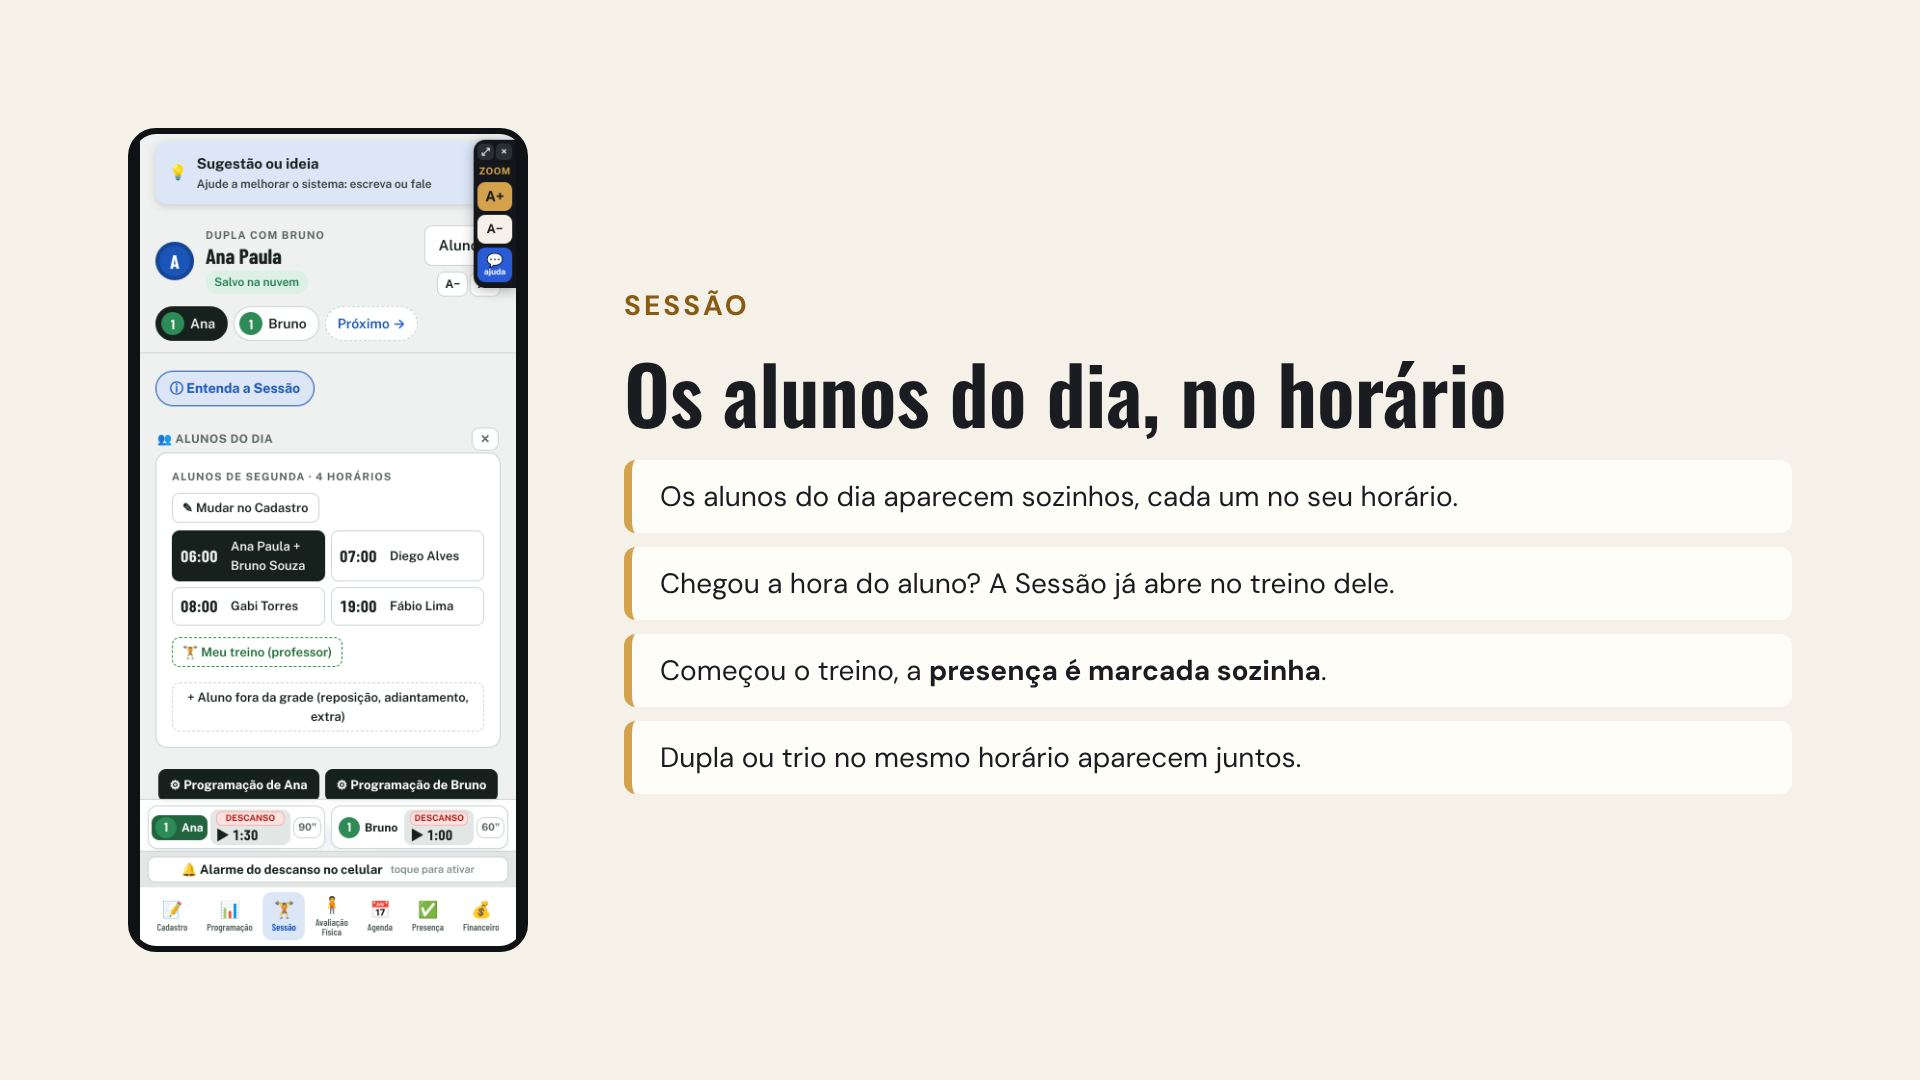
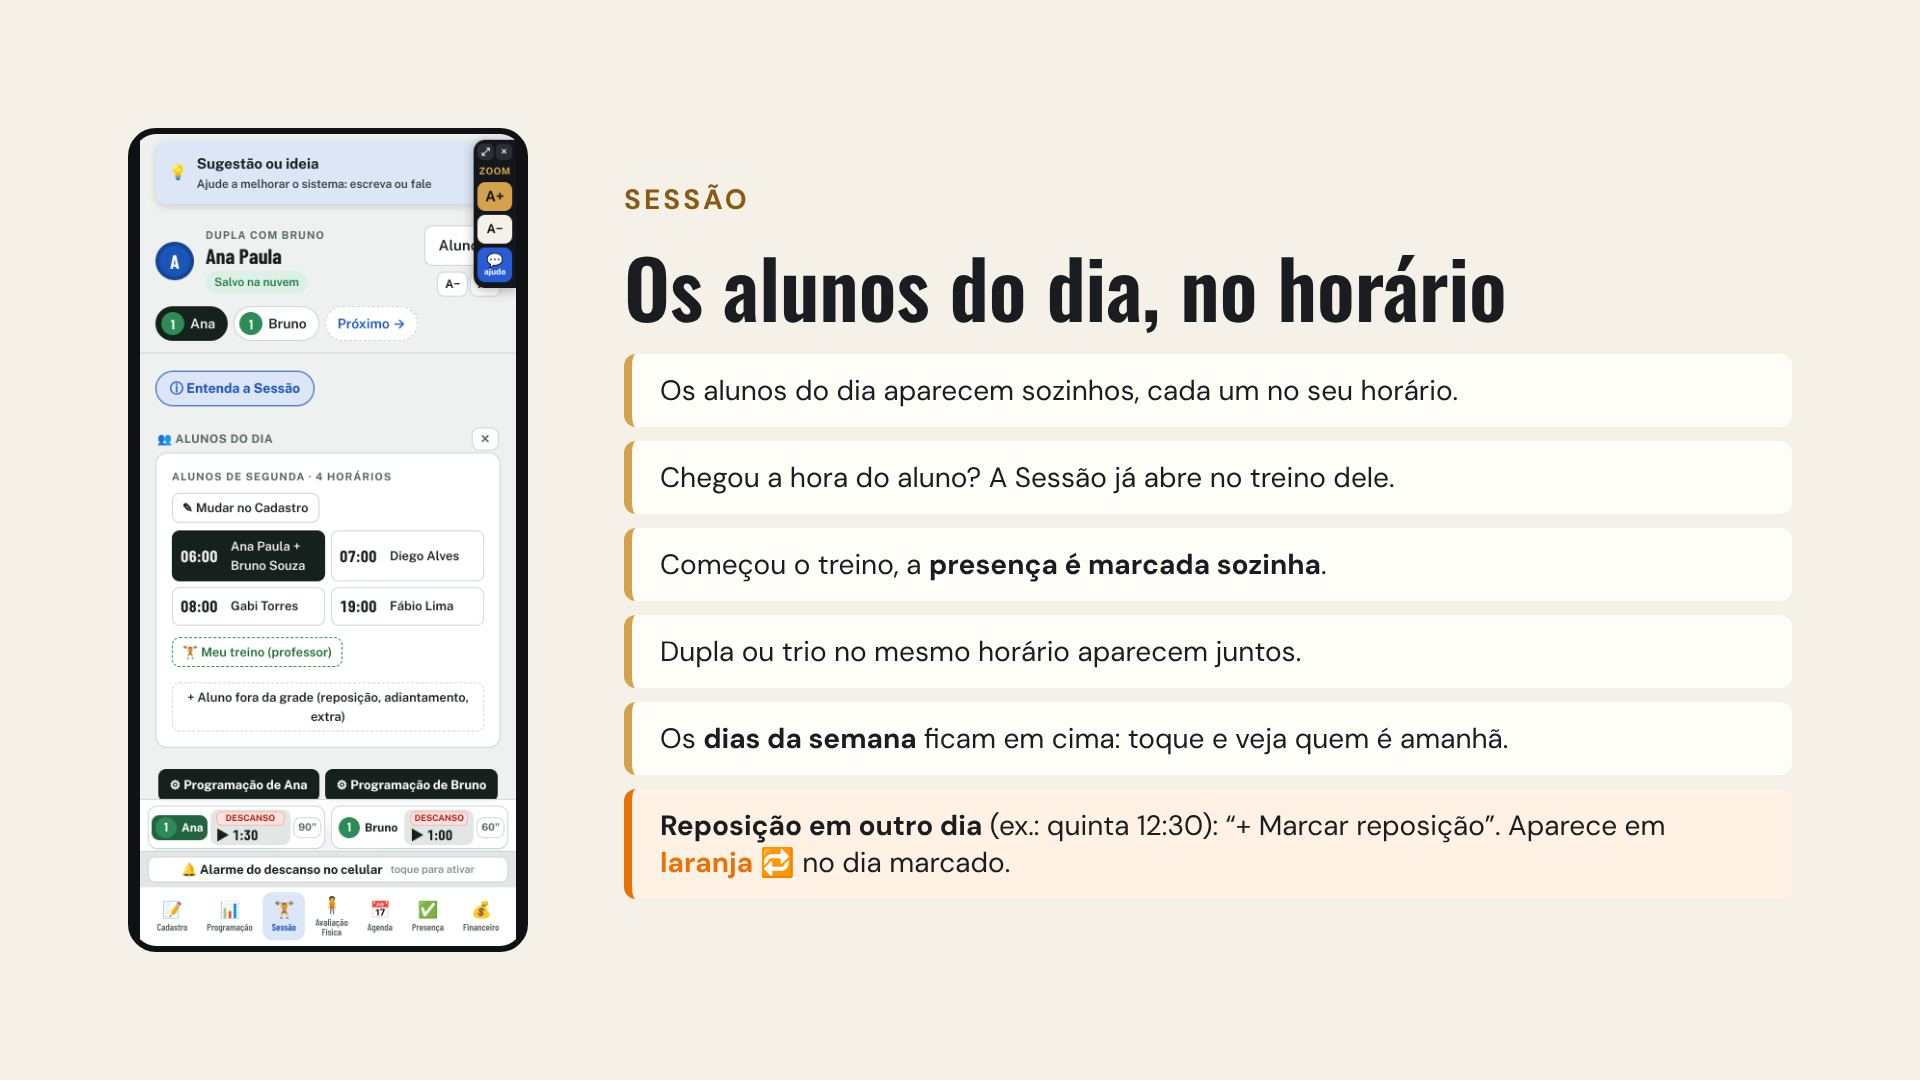
Sessão: dias da semana em Alunos do dia; reposição marcada para outro dia em destaque laranja; slide atualizado
Claude-Session: https://claude.ai/code/session_01ExiWmKxJX9TgZX8HbSZjPY

diff --git a/index.html b/index.html
@@ -1,4 +1,4 @@
-<!doctype html><html><head><meta charset=utf8><link rel="manifest" href="manifest.webmanifest"><meta name="theme-color" content="#0f1115"><link rel="icon" href="icon-192.png"><link rel="apple-touch-icon" href="icon-192.png"><meta name="apple-mobile-web-app-capable" content="yes"><meta name="mobile-web-app-capable" content="yes"><meta name="apple-mobile-web-app-title" content="Rotina do Personal"><meta name=viewport content="width=device-width,initial-scale=1,viewport-fit=cover"><style>:root{color-scheme:light;box-sizing:border-box;padding-top:env(safe-area-inset-top,0px);padding-bottom:env(safe-area-inset-bottom,0px)}html{scroll-padding-top:env(safe-area-inset-top,0px)}body{margin:0;padding:0;font:14px -apple-system,BlinkMacSystemFont,sans-serif;background:#faf9f5;color:#141413}img{max-width:100%}[hidden]:not([hidden=until-found i]){display:none!important}</style><script>window.RP_BUILD="1793010172";
+<!doctype html><html><head><meta charset=utf8><link rel="manifest" href="manifest.webmanifest"><meta name="theme-color" content="#0f1115"><link rel="icon" href="icon-192.png"><link rel="apple-touch-icon" href="icon-192.png"><meta name="apple-mobile-web-app-capable" content="yes"><meta name="mobile-web-app-capable" content="yes"><meta name="apple-mobile-web-app-title" content="Rotina do Personal"><meta name=viewport content="width=device-width,initial-scale=1,viewport-fit=cover"><style>:root{color-scheme:light;box-sizing:border-box;padding-top:env(safe-area-inset-top,0px);padding-bottom:env(safe-area-inset-bottom,0px)}html{scroll-padding-top:env(safe-area-inset-top,0px)}body{margin:0;padding:0;font:14px -apple-system,BlinkMacSystemFont,sans-serif;background:#faf9f5;color:#141413}img{max-width:100%}[hidden]:not([hidden=until-found i]){display:none!important}</style><script>window.RP_BUILD="1793015102";
 (function(){ var K="rp_upd_try";
   var T0=Date.now(); function chk(){ try{ fetch(location.pathname+"?v="+Date.now(),{cache:"no-store"}).then(function(r){ return r.text(); }).then(function(t){ var m=t.match(/window\.RP_BUILD="(\d+)"/); if(!m||m[1]===window.RP_BUILD) return;
       var tried=sessionStorage.getItem(K); if(Date.now()-T0<15000&&tried!==m[1]){ sessionStorage.setItem(K,m[1]); go(m[1]); return; } showUpd(m[1]); }).catch(function(){}); }catch(e){} }
@@ -335,6 +335,7 @@ input.mini{padding:5px;text-align:center}
 .xband.xband3{display:block!important}.xb3{display:flex!important;flex-wrap:nowrap!important;gap:5px!important;padding:5px 6px!important;justify-content:center;border-left:0!important}.xb3 .xb-sug{flex:1 1 0;min-width:0;max-width:200px;white-space:normal!important;line-height:1.15;font-size:10.5px!important;padding:4px 6px!important;text-align:center}
 #restWin{--rwk:1;position:fixed;right:22px;bottom:190px;z-index:8500;min-width:calc(150px*var(--rwk));max-width:calc(230px*var(--rwk));background:var(--rwbg);color:var(--rwfg);border-radius:16px;box-shadow:0 8px 28px rgba(0,0,0,.35);border:2px solid rgba(127,127,127,.45);padding:6px 10px 8px;touch-action:none;user-select:none;cursor:grab}#restWin[hidden]{display:none}#restWin.drag{opacity:.85;cursor:grabbing}#restWin .rwh{display:flex;align-items:center;gap:6px;font-size:11px;font-weight:800;text-transform:uppercase;letter-spacing:.06em;opacity:.85}#restWin .rwh span:nth-child(2){flex:1}#restWin .rwg{font-size:15px}#restWin button{background:none;border:0;color:inherit;cursor:pointer;font:inherit}#restWin .rwx{font-size:16px;padding:2px 4px}#restWin .rwr{display:flex;align-items:center;gap:6px;margin-top:2px}#restWin .rwn{font-size:calc(13px*var(--rwk));font-weight:700;flex:1;min-width:0;overflow:hidden;text-overflow:ellipsis;white-space:nowrap}#restWin .rwt{font-size:calc(34px*var(--rwk));font-weight:900;line-height:1.05}#restWin .rwr.go .rwt{animation:rwpulse .6s ease-in-out infinite alternate}@keyframes rwpulse{to{opacity:.35}}#restWin .rwa{position:absolute;top:50%;transform:translateY(-50%);width:22px;height:44px;border-radius:10px!important;background:var(--rwbg)!important;border:2px solid rgba(127,127,127,.55)!important;font-size:12px!important;display:flex;align-items:center;justify-content:center;box-shadow:0 2px 8px rgba(0,0,0,.25)}#restWin .rwa-l{left:-16px}#restWin .rwa-r{right:-16px}#restWin .rws{font-size:calc(16px*var(--rwk));opacity:.8}#restWin .rwc{display:flex;gap:6px;justify-content:center;margin-top:6px}#restWin .rwc button{width:20px;height:20px;border-radius:50%;border:2px solid rgba(127,127,127,.6);padding:0}#restWin .rwc button.on{outline:2px solid var(--rwfg);outline-offset:2px}
 .sndnow{display:flex;align-items:center;justify-content:space-between;gap:8px;background:var(--ok-soft);border:2px solid var(--ok);border-radius:12px;padding:8px 10px}.sndnow span{display:grid;font-size:12px;color:var(--muted);font-weight:700}.sndnow b{font-size:16px;color:var(--fg)}.sndpl{font-style:normal;font-size:10px;opacity:.7;margin-left:2px}
+.tdays{margin:-2px 0 10px}.tdays .daychips{margin:0}.unit.xrepu{border:2.5px solid #E8710A!important;background:#FFF1E3!important;color:#5a2d00}.unit.xrepu.on{background:#E8710A!important;color:#fff}.unit.xrepu .xtag{background:#E8710A;color:#fff}.dyrep{position:absolute;top:-8px;right:-4px;font-style:normal;font-size:11px;background:#E8710A;color:#fff;border-radius:999px;padding:0 4px;line-height:16px}.daychips button{position:relative}
 .repask p{margin:0}.repask .rq{font-size:17px;font-weight:800}.repask .rbt{display:flex;gap:8px;flex-wrap:wrap;justify-content:center}.repask .rbt .btn{flex:1 1 140px}.repask small{color:var(--muted);font-size:12px}
 .xb-tec.on{background:var(--accent)!important;color:#fff!important}
 .tecmhint{margin:0;padding:4px 8px;font-size:11px;text-align:center;background:var(--accent-soft);color:var(--fg)}.xtec.pick{border-style:solid!important;color:var(--accent)!important;border-color:var(--accent)!important}
@@ -3445,23 +3446,23 @@ function sesAddHTML(st){
     <div class="row-actions"><button class="btn small primary" data-sesedok="${i.key}">Salvar</button><button class="btn small danger" data-sesrm="${i.key}">Apagar aula</button><button class="btn small ghost" data-sesed="">Fechar</button></div></div>`;
   const grp={}; ex.forEach(e=>(grp[e.i.hora]=grp[e.i.hora]||[]).push(e));
   const cs=curSlot();
-  const one=({i,m})=>`<span class="xu"><button class="unit ${m.id===st.id?"on":""}" data-unit="${m.id}" data-sesed="${i.key}"><span class="ud" style="--pc:var(--p${m.phase})">${phK(m)}</span>${esc(first(m.name))}<span class="xtag">${i.tipo==="extra"&&i.a.tipo==="pacote"?"Pacote":(XT_LBL[i.tipo]||"Extra")} · ${i.hora}</span><span class="xpen">✎</span></button>${sesDel===i.key?`<span class="xdelq">Apagar? <button class="btn small danger" data-sesrmok="${i.key}">Sim</button><button class="btn small ghost" data-sesrmno>Não</button></span>`:`<button class="xurm" data-sesrm="${i.key}" aria-label="Apagar esta aula de ${esc(first(m.name))}">✕</button>`}</span>`;
-  const many=(L)=>{ const h=L[0].i.hora, on=cs&&cs.id==="xs"+h; return `<div class="xgrp"><button class="unit ${on?"on":""}" data-xslot="xs${h}">${L.map(({m})=>`<span class="ud" style="--pc:var(--p${m.phase})">${phK(m)}</span>${esc(first(m.name))}`).join('<span class="uplus">+</span>')}<span class="xtag">${[...new Set(L.map(({i})=>i.tipo==="extra"&&i.a.tipo==="pacote"?"Pacote":(XT_LBL[i.tipo]||"Extra")))].join(" / ")} · ${h}</span></button>
+  const one=({i,m})=>`<span class="xu"><button class="unit ${m.id===st.id?"on":""} ${i.tipo==="rep"?"xrepu":""}" data-unit="${m.id}" data-sesed="${i.key}"><span class="ud" style="--pc:var(--p${m.phase})">${phK(m)}</span>${esc(first(m.name))}<span class="xtag">${i.tipo==="rep"?"🔁 REPOSIÇÃO":i.tipo==="extra"&&i.a.tipo==="pacote"?"Pacote":(XT_LBL[i.tipo]||"Extra")} · ${i.hora}</span><span class="xpen">✎</span></button>${sesDel===i.key?`<span class="xdelq">Apagar? <button class="btn small danger" data-sesrmok="${i.key}">Sim</button><button class="btn small ghost" data-sesrmno>Não</button></span>`:`<button class="xurm" data-sesrm="${i.key}" aria-label="Apagar esta aula de ${esc(first(m.name))}">✕</button>`}</span>`;
+  const many=(L)=>{ const h=L[0].i.hora, on=cs&&cs.id==="xs"+h; return `<div class="xgrp"><button class="unit ${on?"on":""} ${L.some(({i})=>i.tipo==="rep")?"xrepu":""}" data-xslot="xs${h}">${L.map(({m})=>`<span class="ud" style="--pc:var(--p${m.phase})">${phK(m)}</span>${esc(first(m.name))}`).join('<span class="uplus">+</span>')}<span class="xtag">${[...new Set(L.map(({i})=>i.tipo==="extra"&&i.a.tipo==="pacote"?"Pacote":(XT_LBL[i.tipo]||"Extra")))].join(" / ")} · ${h}</span></button>
     <div class="xgm">${L.map(({i,m})=>sesDel===i.key?`<span class="xdelq">Apagar ${esc(first(m.name))}? <button class="btn small danger" data-sesrmok="${i.key}">Sim</button><button class="btn small ghost" data-sesrmno>Não</button></span>`:`<span class="xu"><button class="xmini" data-sesed="${i.key}" data-xedonly>✎ ${esc(first(m.name))}</button><button class="xurm" data-sesrm="${i.key}" aria-label="Apagar a aula de ${esc(first(m.name))}">✕</button></span>`).join("")}<small class="muted">Treinando juntos. Para separar, mude o horário de um deles no ✎.</small></div></div>`; };
   const list= ex.length? `<div class="units xunits">${Object.values(grp).map(L=>L.length>1? many(L) : one(L[0])).join("")}</div>${(()=>{ const e=ex.find(x=>x.i.key===sesEdit); return e? edHTML(e.i) : ""; })()}` : "";
   if(!presOn()||!k) return list;
-  if(!sesAddOpen) return `${list}<button class="btn small sesadd" data-sesadd>+ Aluno fora da grade (reposição, adiantamento, extra)</button>`;
+  if(!sesAddOpen) return `${list}<button class="btn small sesadd" data-sesadd>+ Marcar reposição ou aula fora da grade</button>`;
   const now=new Date(), hh=String(now.getHours()).padStart(2,"0")+":"+String(Math.floor(now.getMinutes()/5)*5).padStart(2,"0");
   const ops=PRES.alunos().filter(a=>a.ativo!==false&&a.tipo!=="ficha"&&a.tipo!=="consultoria").sort((a,b)=>a.nome.localeCompare(b.nome,"pt-BR")).map(a=>({pid:a.id,name:a.nome})).map(x=>{ const sd=PRES.saldo(x.pid), tp=PRES.tipoAluno(x.pid); return `<option value="${x.pid}" data-tp="${tp}" data-sd="${sd}">${esc(x.name)}${sd>0?` · deve ${sd}`:sd<0?` · ${-sd} adiantada${-sd>1?"s":""}`:""}${tp==="pacote"?" · pacote":tp==="avulsa"?" · avulsa":""}</option>`; }).join("");
-  return `${list}<div class="sesaddf"><b>Lançar aula fora da grade</b>
+  return `${list}<div class="sesaddf"><b>Marcar reposição ou aula fora da grade</b>
     <label>Aluno<select class="inp" id="sa-al" data-saal><option value="">Escolha o aluno</option>${ops}</select></label>
-    <label>Data<input class="inp" type="date" id="sa-k" value="${k}" max="${isoD(new Date(Date.now()+864e5*60))}"><small class="muted">Aula de dia anterior que não foi contada? Mude a data: ela entra como aula dada.</small></label>
+    <label>Data<input class="inp" type="date" id="sa-k" value="${k}" max="${isoD(new Date(Date.now()+864e5*60))}"><small class="muted">Ex.: a Cris pediu quinta às 12:30? Escolha a data de quinta, o horário e “Reposição”. Fica marcada naquele dia em destaque.</small></label>
     ${(()=>{ const opts=[...slotsOf(S.day).map(sl=>({t:sl.t,n:sl.ids.map(id=>{const x=stById(id);return x?first(x.name):"";}).filter(Boolean).join(" + ")})), ...Object.entries(ex.reduce((g,{i,m})=>{(g[i.hora]=g[i.hora]||[]).push(first(m.name));return g;},{})).map(([t,ns])=>({t,n:ns.join(" + ")}))].filter(o=>o.n);
       return opts.length? `<label>Treinar junto com (opcional)<select class="inp" id="sa-jt"><option value="">Sozinho</option>${opts.map(o=>`<option value="${o.t}">${esc(o.n)} · ${o.t}</option>`).join("")}</select><small class="muted">Escolha alguém e o horário fica igual: treinam em dupla na Sessão.</small></label>` : ""; })()}
     <div class="two"><label>Tipo<select class="inp" id="sa-tp"><option value="rep">Reposição (repõe falta)</option><option value="adi">Adiantamento (adianta aula futura)</option><option value="pac">Mais uma aula do pacote</option><option value="extra">Aula extra ou avulsa</option></select></label>
     <label>Horário<input class="inp" type="time" step="300" id="sa-h" value="${hh}"></label></div>
     <p class="muted sahelp" id="sa-help">A aula entra na Presença deste dia e é marcada como dada quando você lançar o treino.</p>
-    <div class="row-actions"><button class="btn small primary" data-sesaddok>Adicionar e abrir treino</button><button class="btn small ghost" data-sesadd>Cancelar</button></div></div>`;
+    <div class="row-actions"><button class="btn small primary" data-sesaddok>Marcar</button><button class="btn small ghost" data-sesadd>Cancelar</button></div></div>`;
 }
 function todayHTML(st){
   const h=todayHTML0(st); if(gradeEdit) return h;
@@ -4734,6 +4735,7 @@ function renderSessao0(){
   const names=[...new Set([...LIB.map(e=>e.n),...(S.custom||[]).map(e=>e.n)])];
   const grp={}; [...LIB,...(S.custom||[])].forEach(e=>{ const main=Object.entries(e.m||{}).sort((a,b)=>b[1]-a[1])[0]; const g=main&&MUSCLES[main[0]]?MUSCLES[main[0]].n:"Outros"; (grp[g]=grp[g]||[]).push(e.n); });
   PICK_OPTS=Object.entries(grp).map(([g,l])=>`<optgroup label="${esc(g)}">${l.map(n=>`<option>${esc(n)}</option>`).join("")}</optgroup>`).join("");
+  const DAYCH=`<div class="daychips" role="group" aria-label="Dia">${DAYS.map(dy=>{ const kk=addDays(w.start,DAYS.indexOf(dy)); const off=presOn()&&PRES.isOff(kk); const nr=presOn()? sesExtras(dy).filter(x=>x.i.tipo==="rep").length : 0; return `<button data-dy="${dy}" aria-pressed="${dy===S.day}" class="${off?"dyoff":""}">${off?`<i class="dyfer">${(()=>{ const r=String(PRES.offReason(kk)||""); return /^(Viagem|Folga)/.test(r)? r.split(/[ (]/)[0] : "Feriado"; })()}</i>`:""}${nr?`<i class="dyrep" title="Reposição">🔁${nr>1?nr:""}</i>`:""}${dy}<small>${ddmm(addDays(w.start,DAYS.indexOf(dy)))}</small>${used.has(dy)?'<span class="dot"></span>':""}</button>`; }).join("")}</div>`;
   SES_WK=`  <div class="card seswk">
     <div class="weeknav">
       <button class="icon-btn" data-wk="-1" ${wi===0?"disabled":""} aria-label="Semana anterior">‹</button>
@@ -4743,14 +4745,14 @@ function renderSessao0(){
     ${armNewWeek? `<div class="note" style="display:grid;gap:8px"><span>Criar a semana ${last.n+1} (${ddmm(addDays(last.start,7))})</span>
       <div class="row"><button class="btn primary small" data-nw="copy">Usar a semana ${last.n} como referência (↻ Repetir)</button><button class="btn small" data-nw="blank">Em branco</button><button class="btn small ghost" data-nw="cancel">Cancelar</button></div></div>`
       : wkRowHTML()}
-    <div class="daychips" role="group" aria-label="Dia">${DAYS.map(dy=>{ const kk=addDays(w.start,DAYS.indexOf(dy)); const off=presOn()&&PRES.isOff(kk); return `<button data-dy="${dy}" aria-pressed="${dy===S.day}" class="${off?"dyoff":""}">${off?`<i class="dyfer">${(()=>{ const r=String(PRES.offReason(kk)||""); return /^(Viagem|Folga)/.test(r)? r.split(/[ (]/)[0] : "Feriado"; })()}</i>`:""}${dy}<small>${ddmm(addDays(w.start,DAYS.indexOf(dy)))}</small>${used.has(dy)?'<span class="dot"></span>':""}</button>`; }).join("")}</div>
+    ${DAYCH}
     <div class="seg" role="group" aria-label="Modo"><button data-mode="lancar" aria-pressed="${sesMode==="lancar"}">Lançar</button><button data-report="day">Rel. do dia ↗</button><button data-report="week">Rel. semanal ↗</button>${qtip("rel")}</div>
   </div>`;
   document.getElementById("view-sessao").innerHTML=`${helpBtn("sessao")}
   <datalist id="exlist">${names.map(n=>`<option value="${esc(n)}">`).join("")}</datalist>
   <datalist id="cardiolist">${["Esteira","Bike","Spinning","Elíptico","Escada","Remo","Corrida na rua","Caminhada","Natação"].map(n=>`<option value="${n}">`).join("")}</datalist>
   ${wkCfgHTML("banner")}
-  ${boxW("alunos","👥 Alunos do dia",todayHTML(st))}
+  ${boxW("alunos","👥 Alunos do dia",(gradeEdit?"":`<div class="tdays">${DAYCH}</div>`)+todayHTML(st))}
   ${sesMode==="lancar"? "" : boxW("semana","📅 Semana e dia",SES_WK)}
   ${sesProgHTML(st)}
   ${sesMode==="lancar"? `<div class="cols" style="--n:${ms.length}">${ms.map(m=>colHTML(m,w,ms)).join("")}</div>` : painelHTML(st,w)}`;
@@ -4866,7 +4868,7 @@ function sesClick(e){
     const sid=m.id, k=document.getElementById("sa-k").value||dateOfDay(S.day), tp0=document.getElementById("sa-tp").value, tp=tp0==="pac"?"extra":tp0, h=document.getElementById("sa-h").value||"07:00";
     const dupK=m.pid+k; if(PRES.agenda(k).some(i=>i.a.id===m.pid&&i.tipo!=="fixo")&&sesDup!==dupK){ sesDup=dupK; toast(`${first(m.name)} já tem aula lançada em ${ddmm(k)}. Toque de novo se for mesmo outra aula.`); return; }
     sesDup=null; PRES.addAula(m.pid,k,h,tp); sesAddOpen=false; S.slot=null; if(k===dateOfDay(S.day)) S.active=sid; save();
-    if(k!==dateOfDay(S.day)){ toast(`${tp0==="pac"?"Aula do pacote":XT_LBL[tp]} de ${first(m.name)} lançada em ${ddmm(k)} · conta na Presença`); renderAll(); return; }
+    if(k!==dateOfDay(S.day)){ toast(`${tp0==="pac"?"Aula do pacote":XT_LBL[tp]} de ${first(m.name)} marcada para ${ddmm(k)} às ${h}`); renderAll(); return; }
     toast(`${tp0==="pac"?"Aula do pacote":XT_LBL[tp]} de ${first(m.name)} ${tp==="adi"?"lançado":"lançada"} · conta na Presença`); renderAll(); return; }
   if(b.dataset.unit){ if(b.dataset.sesed!=null){ sesEdit= (S.active===b.dataset.unit&&sesEdit===b.dataset.sesed)? null : b.dataset.sesed; } S.active=b.dataset.unit; save(); renderAll(); return; }
   if(b.dataset.sesed!=null){ sesEdit=b.dataset.sesed||null; renderSessao(); return; }
@@ -4880,6 +4882,7 @@ function sesClick(e){
     if(b.dataset.gdel){ sl.ids=sl.ids.filter(x=>x!==b.dataset.gdel); }
     if(b.hasAttribute("data-gslotdel")){ S.grade[S.day]=L.filter(x=>x!==sl); }
     save(); renderSessao(); return; }
+  if(b.dataset.dy&&b.closest(".tdays")){ S.day=b.dataset.dy; armAct=null; S.slot=null; save(); rer(); return; }
   if(b.dataset.dy){ const same=S.day===b.dataset.dy&&ltrEdit===S.active; S.day=b.dataset.dy; armAct=null; ltrEdit= same? null : S.active; rer(); setTimeout(()=>{ const x=document.querySelector(".col.active .ltrbox"); if(x) x.scrollIntoView({block:"nearest",behavior:"smooth"}); },60); return; }
   if(b.hasAttribute("data-report")){ if(m) S.active=m.id; repKind=b.dataset.report||"day"; repOpen=true; renderReport(); document.body.style.overflow="hidden"; return; }
   if(b.dataset.mode){ sesMode=b.dataset.mode; renderSessao(); window.scrollTo(0,0); return; }
